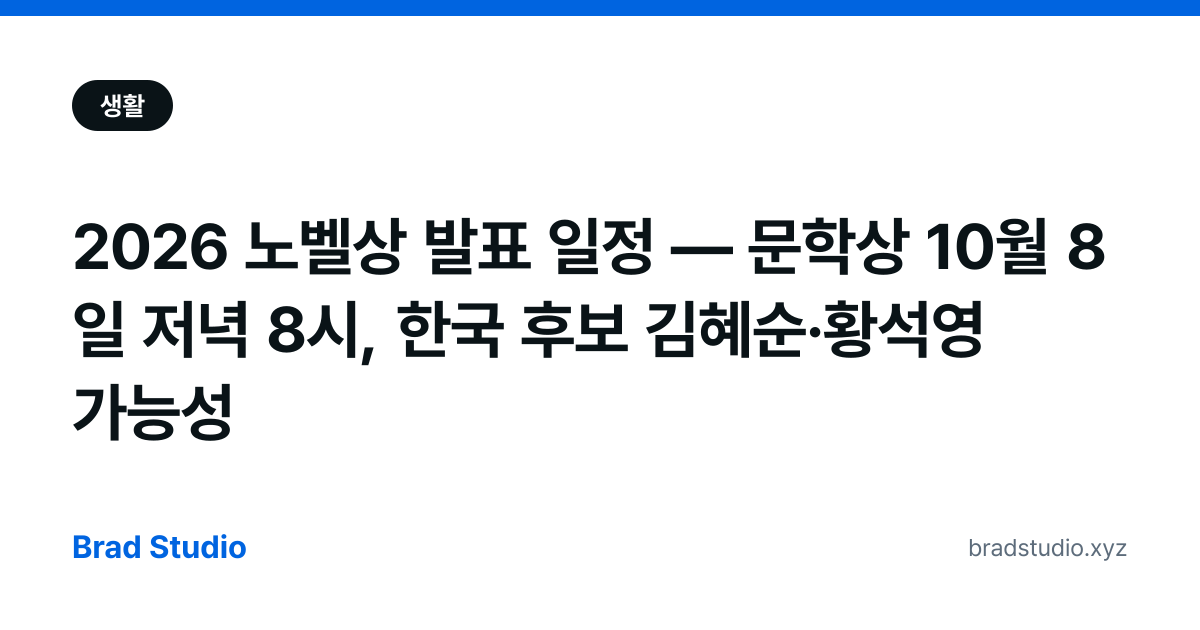
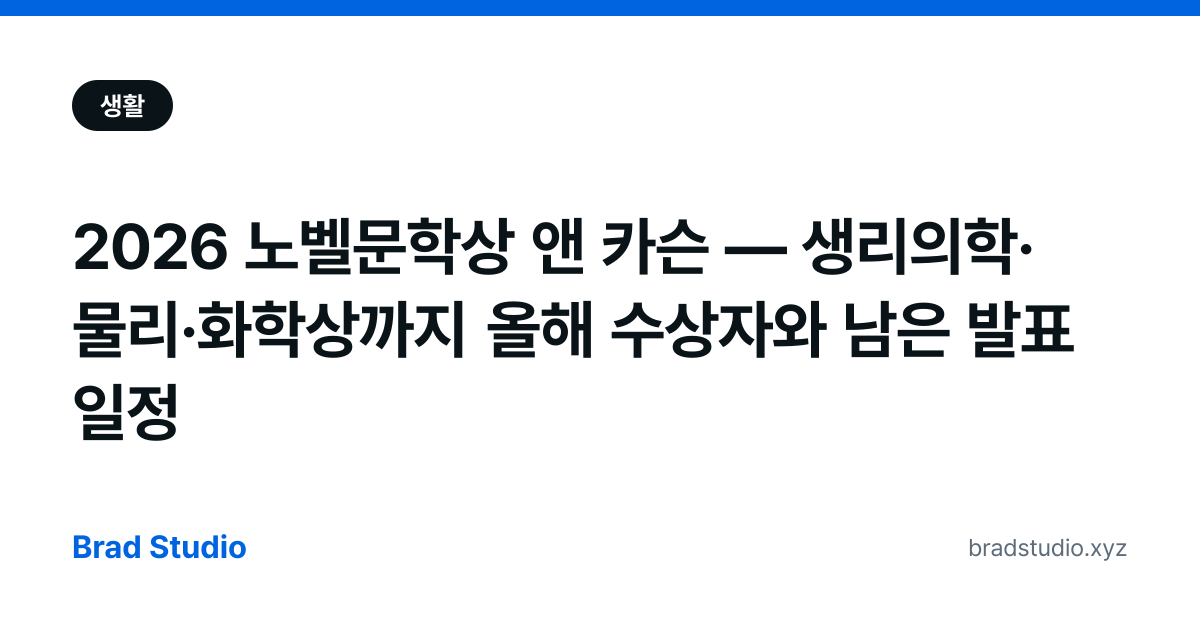
content: 노벨 문학상 결과 반영 — 앤 카슨, 제목·설명 결과형으로, 후보 섹션·FAQ 갱신, OG 재생성
Claude-Session: https://claude.ai/code/session_016W68o6eYMen6oLnjrGLJi9

Changed region(s): [[0.0617, 0.4825, 0.8942, 0.573], [0.2775, 0.3317, 0.925, 0.4524], [0.0617, 0.6032, 0.2158, 0.7238]]

diff --git a/src/content/blog/nobel-prize-2026-schedule.md b/src/content/blog/nobel-prize-2026-schedule.md
@@ -1,9 +1,9 @@
 ---
 contentId: "bs-20261002-002"
-title: '2026 노벨상 발표 일정 — 문학상 10월 8일 저녁 8시, 한국 후보 김혜순·황석영 가능성'
-description: '2026 노벨 생리의학상은 광유전학을 개척한 칼 다이서로스·페터 헤게만·게오르크 나겔에게 돌아갔습니다. 물리학상은 아이스큐브 중성미자 관측소를 이끈 프랜시스 할젠이 받았습니다. 노벨상은 10월 5일 생리의학상을 시작으로 12일 경제학상까지 발표됩니다. 문학상은 10월 8일(목) 오후 8시(한국 시간). 영국 래드브록스 배당 1위는 중국 찬쉐, 한국에서는 시인 김혜순과 소설가 황석영이 거론됩니다. 한국 시간 발표표와 생중계 보는 법을 정리했습니다.'
+title: '2026 노벨문학상 앤 카슨 — 생리의학·물리·화학상까지 올해 수상자와 남은 발표 일정'
+description: '2026 노벨문학상은 캐나다 시인 앤 카슨에게 돌아갔습니다. 생리의학상은 광유전학의 다이서로스·헤게만·나겔, 물리학상은 아이스큐브 중성미자 관측소의 프랜시스 할젠, 화학상은 비대칭 유기합성의 앙리 카강·소아이 겐소가 받았습니다. 부문별 수상 이유와 평화상(10월 9일)·경제학상(10월 12일) 한국 시간 발표표를 정리했습니다.'
 pubDate: 2026-10-02
-updatedDate: 2026-10-07
+updatedDate: 2026-10-08
 thumbnail:
   url: 'https://images.unsplash.com/photo-1595123550441-d377e017de6a?crop=entropy&cs=tinysrgb&fit=max&fm=jpg&q=80&w=1080'
   alt: '나무 책장에 쌓인 오래된 책들'
@@ -24,6 +24,7 @@ primaryKeyword: '노벨상 발표 일정'
 secondaryKeywords:
   - '노벨문학상 발표 시간'
   - '2026 노벨문학상 후보'
+  - '노벨문학상 앤 카슨'
   - '노벨문학상 김혜순'
   - '노벨문학상 황석영'
   - '노벨상 생중계'
@@ -39,6 +40,15 @@ internalLinks:
   - 'bs-20260929-004'
 
 sources:
+  - title: '신화와 현실의 경계를 허무는 언어…2026년 노벨문학상에 앤 카슨 — 서울신문'
+    url: 'https://www.seoul.co.kr/news/life/publication-literature/2026/10/08/20261008500300'
+    accessedAt: 2026-10-08
+  - title: '캐나다 작가 앤 카슨 노벨문학상 수상 — 아시아경제'
+    url: 'https://view.asiae.co.kr/article/2026100820150011929'
+    accessedAt: 2026-10-08
+  - title: '노벨 문학상, 캐나다 작가 앤 카슨… 고전과 유희적 대화로 현대 문학의 새로운 형식 창조 — 뉴스핌'
+    url: 'https://www.newspim.com/news/view/20261008001380'
+    accessedAt: 2026-10-08
   - title: 'Henri B. Kagan and Kenso Soai win Nobel Prize in chemistry — AP(battlefordsNOW 전재)'
     url: 'https://battlefordsnow.com/2026/10/07/henri-b-kagan-and-kenso-soai-win-nobel-prize-in-chemistry/'
     accessedAt: 2026-10-07
@@ -82,20 +92,20 @@ monetization:
   affiliateDisclosure: false
 
 faq:
-  - question: '2026 노벨문학상은 언제 발표하나요?'
-    answer: '10월 8일(목) 오후 1시(스웨덴 시간), 한국 시간 오후 8시에 스웨덴 한림원이 발표합니다.'
+  - question: '2026 노벨문학상 수상자는 누구인가요?'
+    answer: '캐나다 시인 앤 카슨입니다. 스웨덴 한림원이 10월 8일(한국 시간 오후 8시) 발표했습니다. 대표작은 운문 소설 《빨강의 자서전》입니다.'
   - question: '노벨상 발표는 어디서 볼 수 있나요?'
     answer: '노벨재단 공식 사이트(nobelprize.org)와 공식 유튜브·SNS 채널에서 발표를 생중계합니다. 국내 방송사와 포털 뉴스도 발표 직후 속보를 냅니다.'
-  - question: '한국 작가가 받을 가능성은 있나요?'
-    answer: '언론과 베팅 사이트에서 시인 김혜순과 소설가 황석영이 거론됩니다. 영국 래드브록스에서 황석영은 40대 1 배당으로 명단에 올랐습니다. 2024년 한강이 수상한 뒤 2년 만이라 가능성을 낮게 보는 시각도 있습니다. 한림원은 후보 명단을 50년간 공개하지 않아 모든 예측은 추정입니다.'
-  - question: '가장 유력한 후보는 누구인가요?'
-    answer: '래드브록스 배당 기준으로 중국 작가 찬쉐가 10대 1로 1위, 일본 무라카미 하루키가 그 뒤입니다. 마거릿 애트우드, 제럴드 머네인, 앤 카슨 등도 꾸준히 거론됩니다.'
+  - question: '한국 작가는 받았나요?'
+    answer: '발표 전 시인 김혜순과 소설가 황석영이 거론됐지만, 2026년 수상자는 캐나다의 앤 카슨으로 발표됐습니다.'
+  - question: '발표 전 유력 후보는 누구였나요?'
+    answer: '래드브록스 배당 기준으로 중국 작가 찬쉐가 10대 1로 1위, 일본 무라카미 하루키가 그 뒤였습니다. 수상자 앤 카슨은 마거릿 애트우드, 제럴드 머네인과 함께 상위권 후보로 거론됐습니다.'
 
 seo:
   noindex: false
 ---
 
-노벨상 발표 주간이 10월 5일(월) 시작됐습니다. 발표된 결과는 아래에 날마다 추가합니다. 한국 시간으로 언제 보면 되는지, 문학상 후보는 누구인지도 함께 정리했습니다.
+2026 노벨상은 10월 8일까지 생리의학·물리·화학·문학상 수상자가 발표됐습니다. 남은 평화상(10월 9일)과 경제학상(10월 12일) 결과도 발표되는 대로 추가합니다.
 
 ## 발표 결과
 
@@ -104,13 +114,15 @@ seo:
 | **생리의학상** (10/5) | 칼 다이서로스, 페터 헤게만, 게오르크 나겔 | 광유전학 개척: 빛에 반응하는 단백질로 특정 신경세포를 켜고 끄는 기술 |
 | **물리학상** (10/6) | 프랜시스 할젠 (미국 위스콘신대 매디슨) | 아이스큐브 중성미자 관측소 구축, 우주에서 온 고에너지 중성미자 발견 |
 | **화학상** (10/7) | 앙리 카강 (프랑스 파리쉬드대), 소아이 겐소 (일본 도쿄이과대) | 비대칭 유기합성의 비선형 효과와 자기촉매 발견: 한쪽 거울상 분자만 골라 만드는 반응의 원리 |
-| 문학상 (10/8) | 발표 예정 | |
+| **문학상** (10/8) | 앤 카슨 (캐나다, 시인·고전학자) | 고전 전통과 유희적으로 대화하며 현대 문학의 새로운 형식을 만든 대담하고 독창적인 작품 세계 |
 
 생리의학상은 빛을 이용해 살아 있는 뇌의 특정 신경세포를 켜거나 끄는 광유전학에 돌아갔습니다. 헤게만과 나겔은 단세포 조류에서 빛을 받으면 이온을 통과시키는 단백질 '채널로돕신'을 밝혔고, 다이서로스는 이를 신경세포에 넣어 빛으로 제어하는 연구 도구로 발전시켰습니다. 기억·감정·행동을 맡는 신경회로 연구와 파킨슨병·우울증 같은 질환 연구에 널리 쓰입니다.
 
 물리학상은 남극 얼음 속에 설치한 중성미자 관측소 '아이스큐브'를 이끈 프랜시스 할젠 교수가 단독으로 받았습니다. 중성미자는 물질과 거의 반응하지 않아 관측이 어려운 입자인데, 아이스큐브는 얼음 깊은 곳에 검출기를 심어 드물게 생기는 반응의 빛을 잡아냅니다. 노벨위원회는 이 관측소 건설에 대한 기여와 태양계 밖 천체에서 날아온 고에너지 중성미자를 발견한 공로를 수상 이유로 들었습니다.
 
 화학상은 앙리 카강과 소아이 겐소가 공동 수상했습니다. 많은 분자는 오른손·왼손처럼 서로 거울상인 두 형태로 존재하고, 약은 둘 중 한쪽만 효과를 내는 경우가 많습니다. 카강은 촉매의 순도가 낮아도 생성물은 훨씬 한쪽으로 치우칠 수 있다는 비선형 효과를 밝혔고, 소아이는 생성물이 스스로 자기 생성을 촉진하면서 한쪽 형태를 증폭하는 자기촉매 반응(소아이 반응)을 발견했습니다. 노벨위원회는 생명체 분자가 왜 한쪽 형태로만 이뤄져 있는가라는 100년 넘은 질문에 답을 제시했고, 의약품 합성 반응 설계에 결정적이었다고 평가했습니다.
+
+문학상은 캐나다 시인 앤 카슨이 받았습니다. 카슨은 고대 그리스·로마 문학을 연구한 고전학자이자 번역가로, 시와 산문, 비평과 번역의 경계를 넘나드는 형식으로 알려져 있습니다. 대표작은 그리스 신화의 괴물 게리온 이야기를 현대 성장담으로 옮긴 운문 소설 《빨강의 자서전》입니다. 스웨덴 한림원은 고전 전통과의 유희적 대화로 현대 문학의 새로운 형식을 만들었다고 평가했습니다. 캐나다 작가의 수상은 2013년 앨리스 먼로 이후 13년 만입니다.
 
 ## 한국 시간 발표표
 
@@ -127,9 +139,9 @@ seo:
 
 ---
 
-## 1. 문학상 배당 1위는 찬쉐
+## 1. 발표 전 예측: 배당 1위 찬쉐, 결과는 앤 카슨
 
-영국 베팅 사이트 래드브록스 기준 상위권 후보입니다.
+발표 전 영국 베팅 사이트 래드브록스 기준 상위권 후보입니다. 배당 1위 찬쉐 대신 5위권의 앤 카슨이 수상했습니다.
 
 | 후보 | 국적 | 비고 |
 |---|---|---|
@@ -137,25 +149,25 @@ seo:
 | 무라카미 하루키 | 일본 | 매년 거론되는 단골 후보 |
 | 마거릿 애트우드 | 캐나다 | 《시녀 이야기》 |
 | 제럴드 머네인 | 호주 | 은둔형 작가 |
-| 앤 카슨 | 캐나다 | 시인·고전학자 |
+| **앤 카슨** | 캐나다 | 시인·고전학자, **2026 수상** |
 
 그 밖에 류드밀라 울리츠카야, 미르체아 커르터레스쿠, 미셸 우엘벡, 토머스 핀천도 거론됩니다. 한림원은 후보 명단을 50년간 공개하지 않습니다. 배당은 예측 시장의 추정일 뿐입니다.
 
 ---
 
-## 2. 한국 후보: 김혜순·황석영
+## 2. 거론됐던 한국 작가: 김혜순·황석영
 
 - **김혜순(시인)**: 여성의 몸과 죽음, 사회적 폭력을 독자적인 시어로 써 왔습니다. 대표작 《죽음의 자서전》, 《지구가 죽으면 달은 누굴 돌지?》.
 - **황석영(소설가)**: 《객지》, 《철도원 삼대》 등에서 노동자의 삶과 한국 근현대사를 그렸습니다. 래드브록스 배당 40대 1.
 
-2024년 한강이 한국인 첫 노벨문학상을 받았습니다. 한림원이 같은 언어권 작가를 연달아 고르는 일은 드물어 가능성을 낮게 보는 시각도 있습니다.
+2024년 한강이 한국인 첫 노벨문학상을 받았습니다. 올해는 두 작가 모두 수상하지 못했습니다.
 
 ---
 
-## 3. 발표 보는 법
+## 3. 남은 발표 보는 법
 
 1. **생중계**: 노벨재단 공식 사이트 nobelprize.org와 공식 유튜브 채널
 2. **속보**: 국내 포털 뉴스가 발표 직후 수상자를 띄웁니다.
-3. **책 구매**: 수상 발표 직후 수상작 재고가 빠르게 소진됩니다. 서점 예측 이벤트도 진행 중입니다.
+3. **책 구매**: 앤 카슨의 국내 번역본은 수상 발표 직후 재고가 빠르게 소진될 수 있습니다.
 
-10월 8일 저녁 8시, [노벨재단 공식 사이트](https://www.nobelprize.org)에서 문학상 발표를 바로 확인하세요.
+10월 9일 저녁 6시 평화상 발표는 [노벨재단 공식 사이트](https://www.nobelprize.org)에서 확인하세요.
